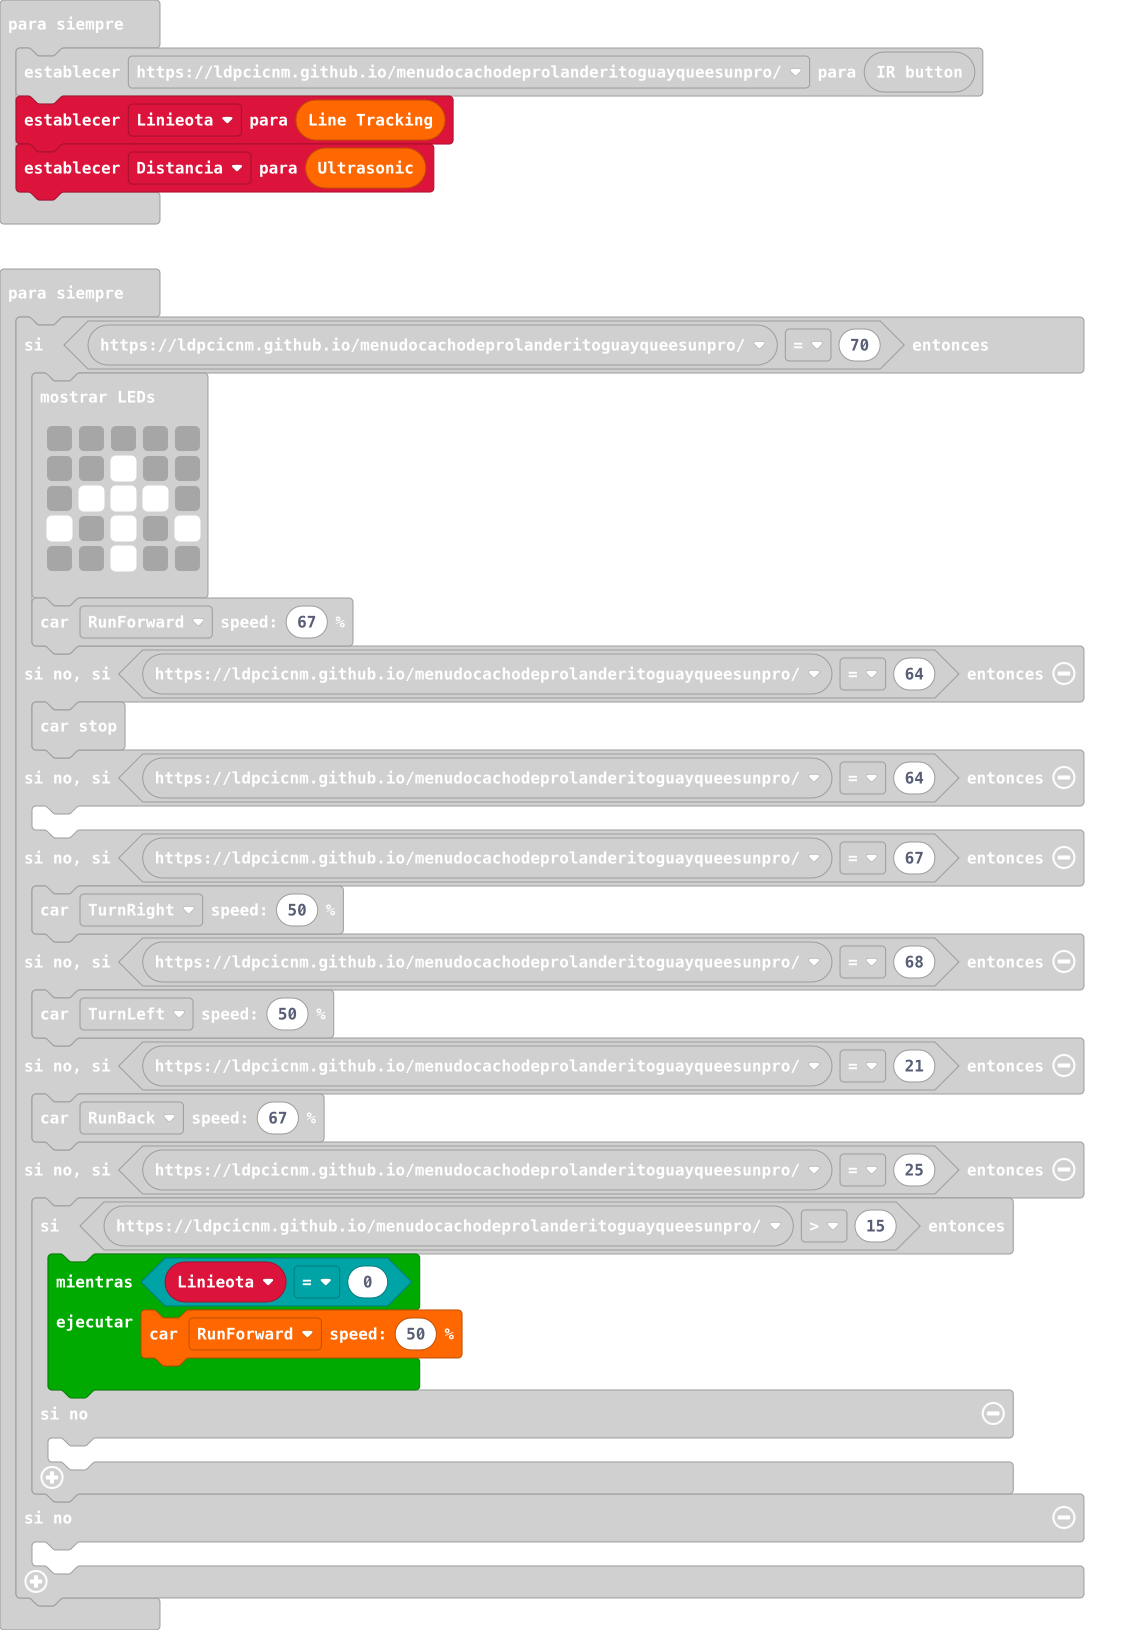
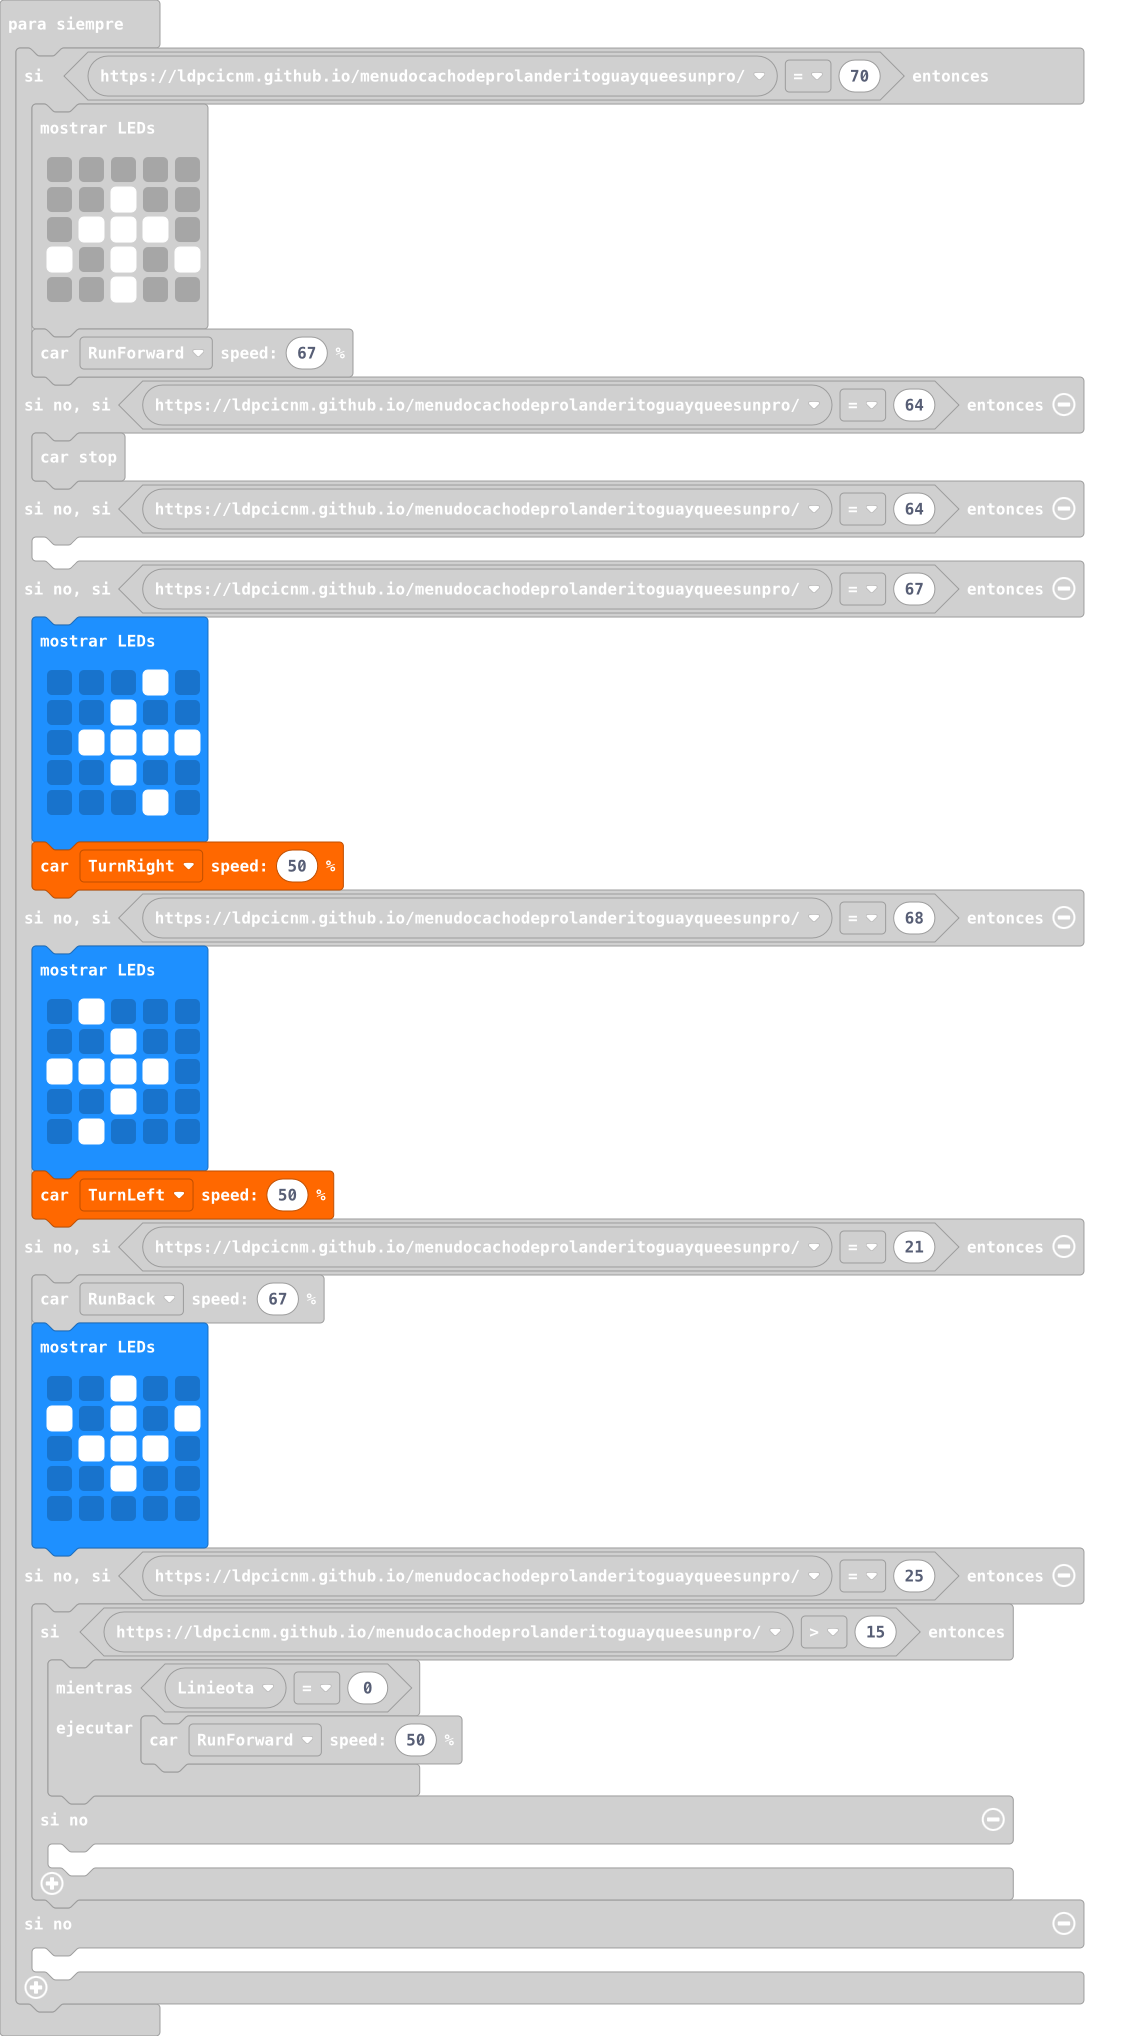
Actualizar main.blocks, main.ts

diff --git a/main.ts b/main.ts
@@ -22,11 +22,32 @@ basic.forever(function () {
     } else if (httpsldpcicnmgithubiomenudocachodeprolanderitoguayqueesunpro == 64) {
     	
     } else if (httpsldpcicnmgithubiomenudocachodeprolanderitoguayqueesunpro == 67) {
+        basic.showLeds(`
+            . . . # .
+            . . # . .
+            . # # # #
+            . . # . .
+            . . . # .
+            `)
         k_Bit.run(DIR.TurnRight, 50)
     } else if (httpsldpcicnmgithubiomenudocachodeprolanderitoguayqueesunpro == 68) {
+        basic.showLeds(`
+            . # . . .
+            . . # . .
+            # # # # .
+            . . # . .
+            . # . . .
+            `)
         k_Bit.run(DIR.TurnLeft, 50)
     } else if (httpsldpcicnmgithubiomenudocachodeprolanderitoguayqueesunpro == 21) {
         k_Bit.run(DIR.RunBack, 67)
+        basic.showLeds(`
+            . . # . .
+            # . # . #
+            . # # # .
+            . . # . .
+            . . . . .
+            `)
     } else if (httpsldpcicnmgithubiomenudocachodeprolanderitoguayqueesunpro == 25) {
         if (httpsldpcicnmgithubiomenudocachodeprolanderitoguayqueesunpro > 15) {
             while (Linieota == 0) {
